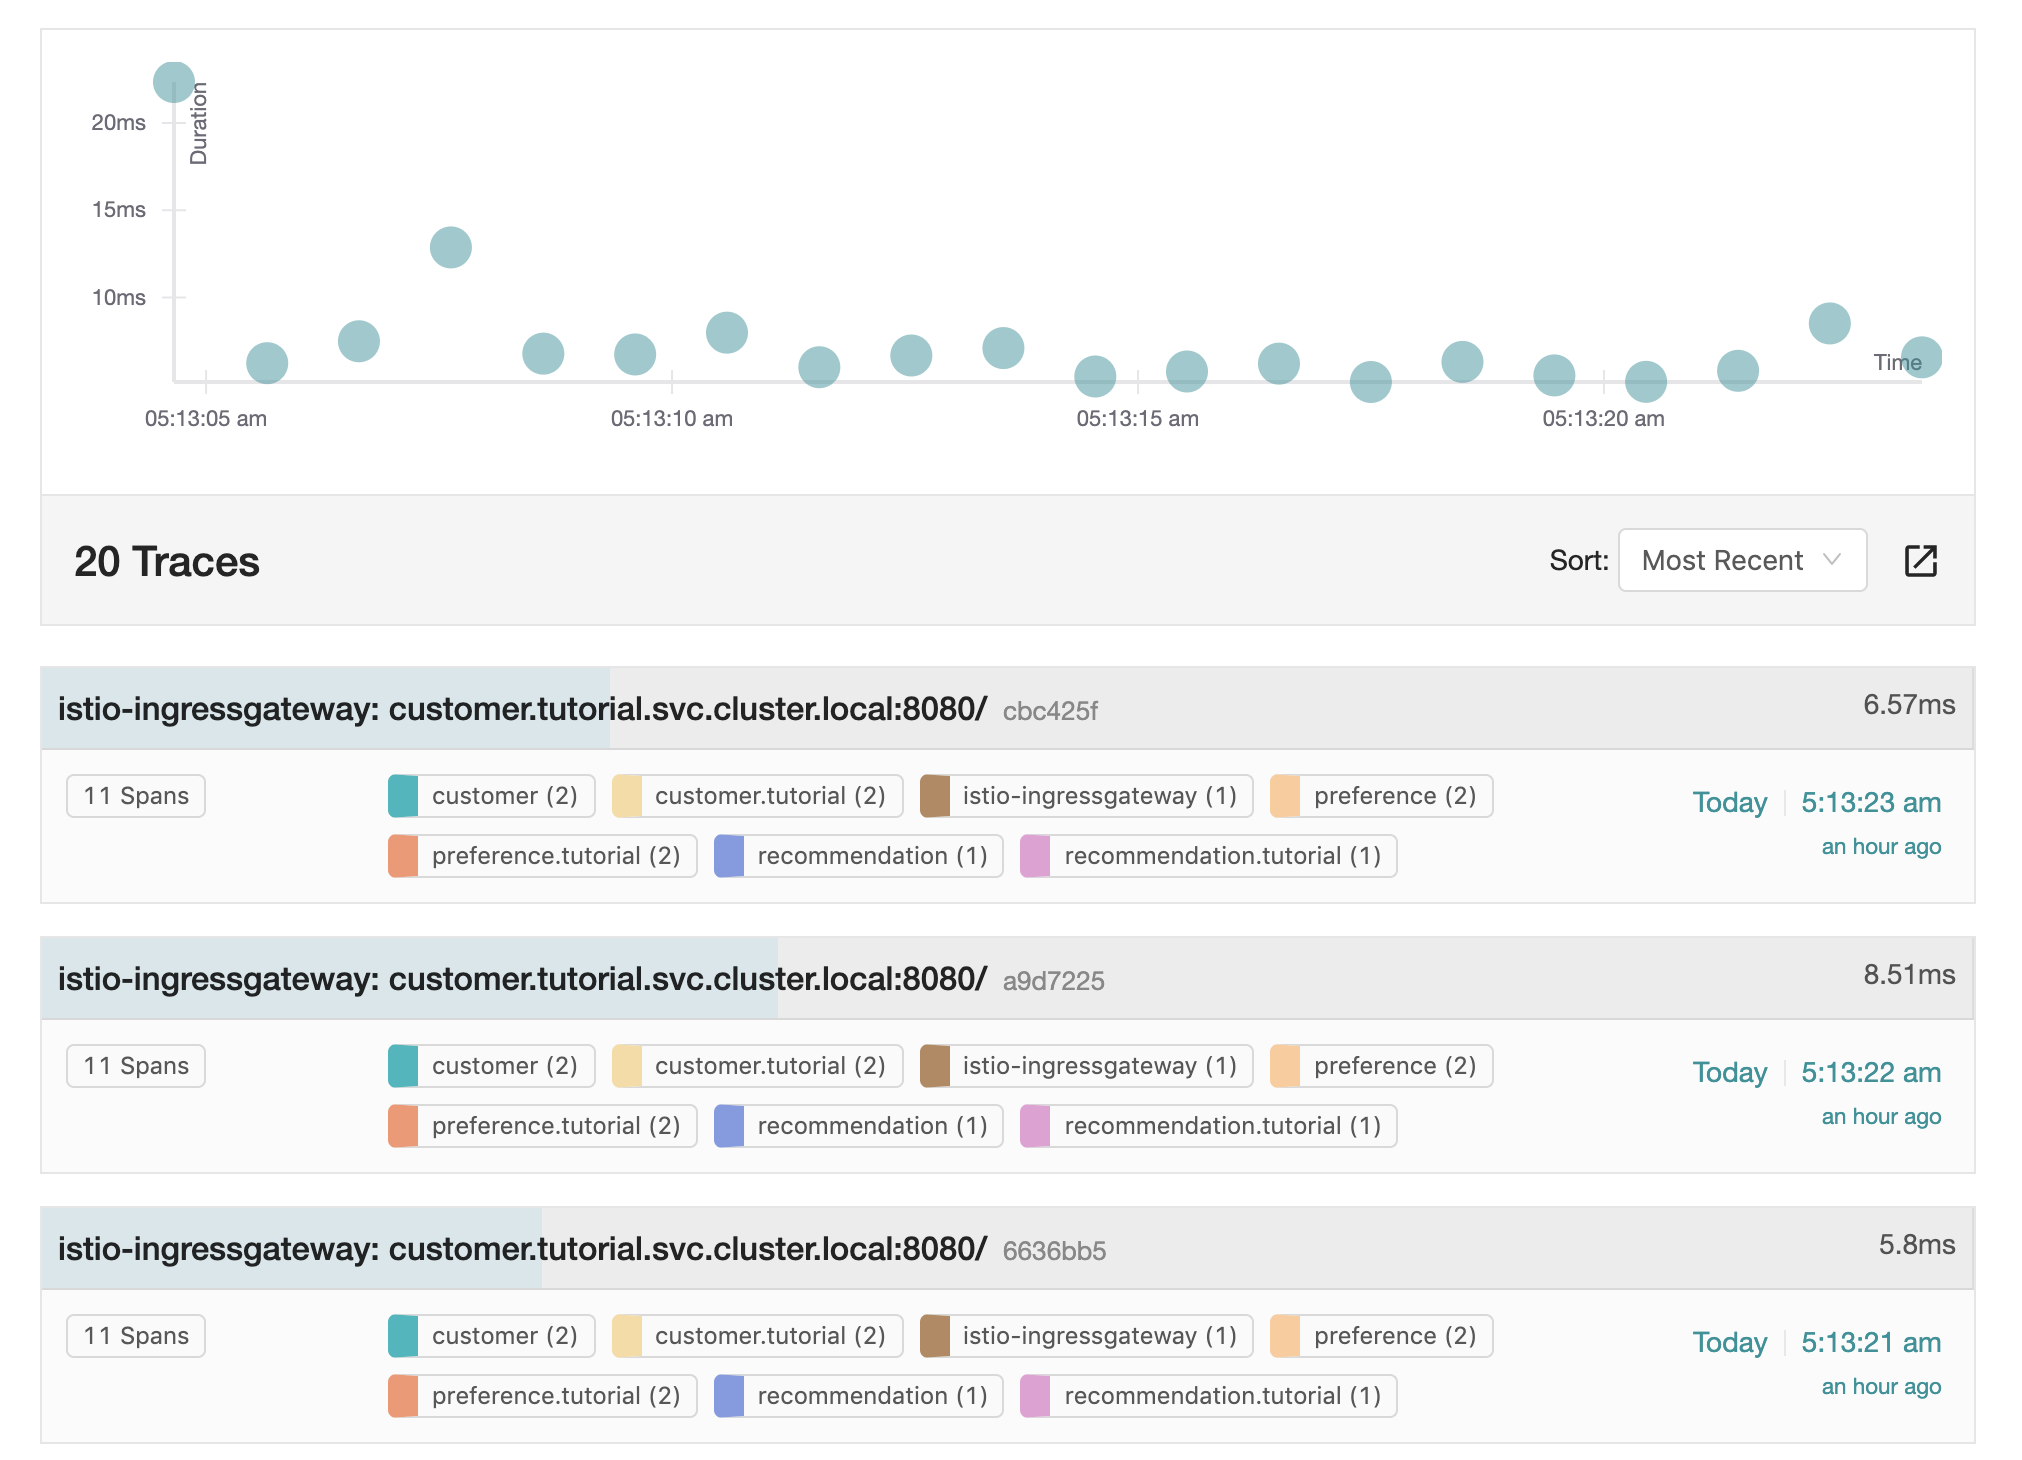
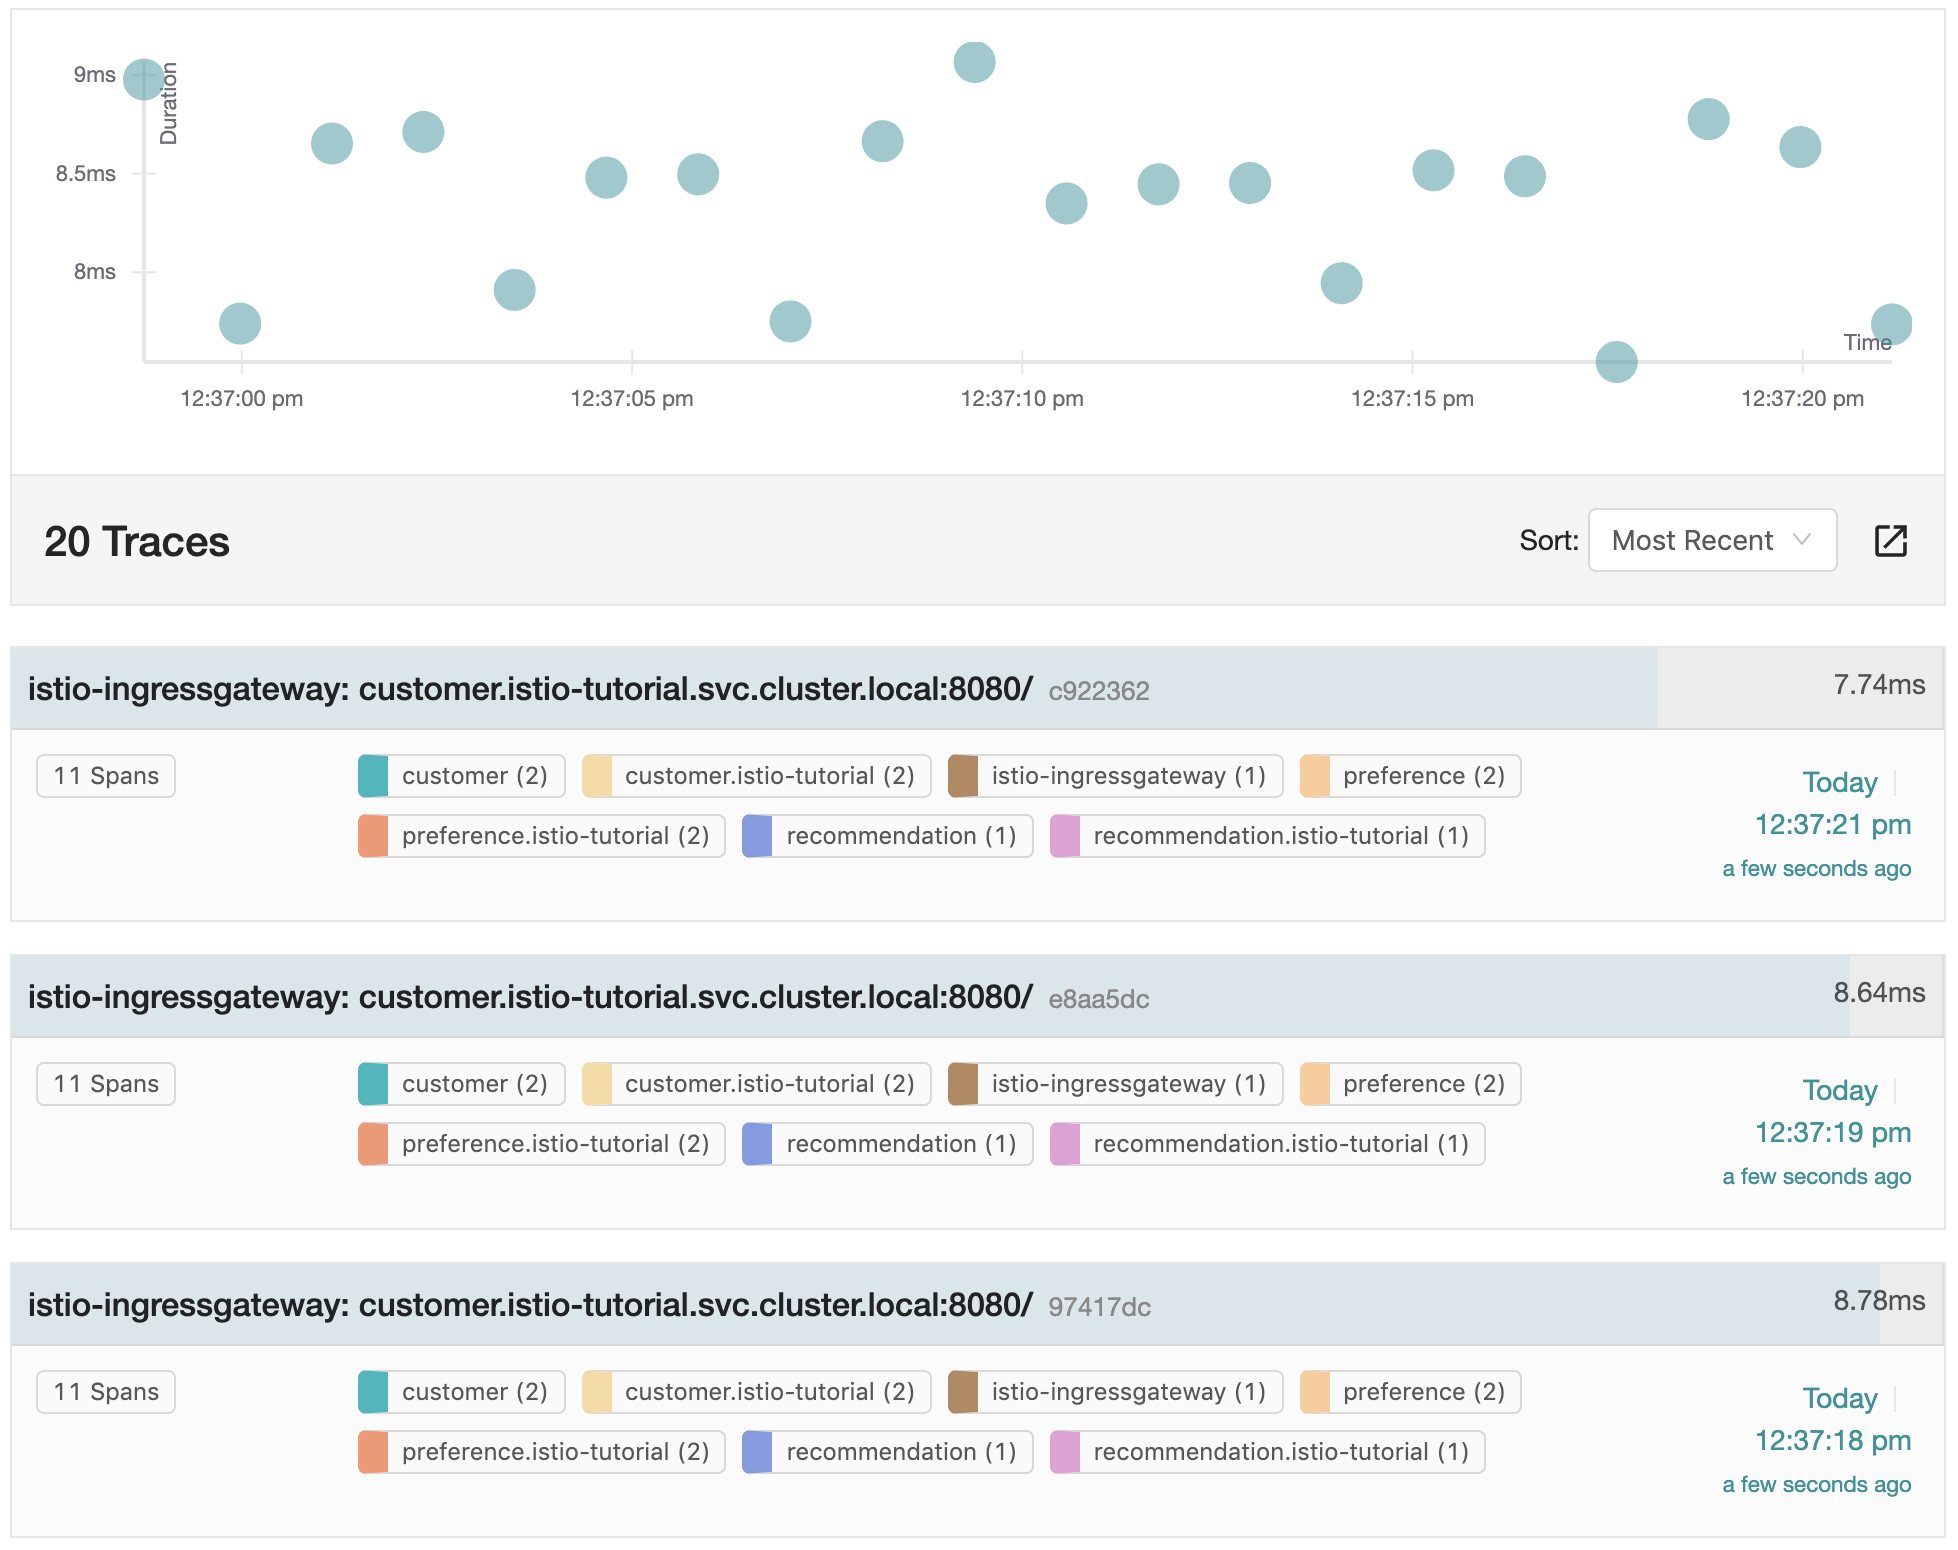
Updated namespace to istio-tutorial

diff --git a/instructions/kiali/kiali.md b/instructions/kiali/kiali.md
@@ -29,11 +29,13 @@ To open the kiali console enter the following command within a new terminal
 
 `xdg-open https://$(oc get route -n istio-system kiali -o 'jsonpath={.spec.host}')`
 
+When prompted to login use the username *admin* and the password *admin*.
+
 ### Kiali's Graph
 
 Within the Kiali UI select the *Graph* option from the left hand navigation and then choose
 
-* Namespace: tutorial
+* Namespace: istio-tutorial
 * Versioned app graph
 * Requests percentage
 * Last 1m
@@ -49,8 +51,8 @@ You should now see the application graph showing traffic being created by our sc
 
 Within the Kiali UI select the *Distributed Tracing* option from the left hand navigation and then choose
 
-* Namespace: tutorial
-* Service: customer.tutorial
+* Namespace: istio-tutorial
+* Service: customer.istio-tutorial
 
 and finally press the *Search* button.
 
